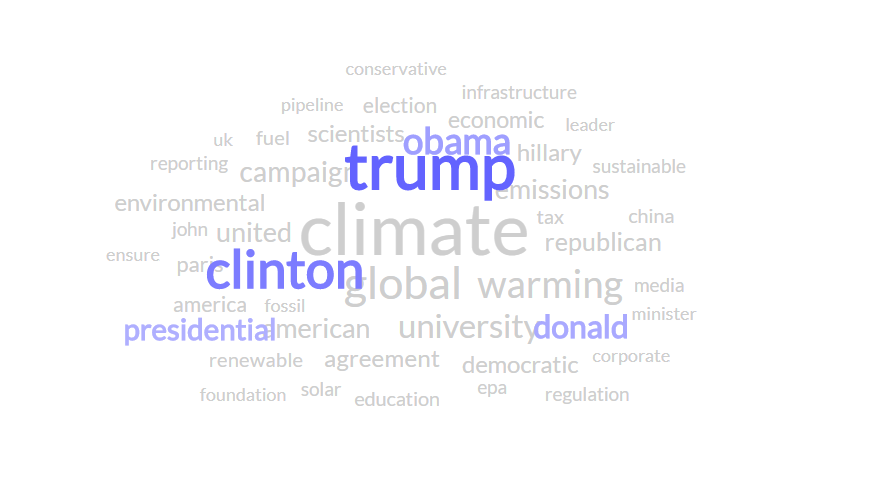
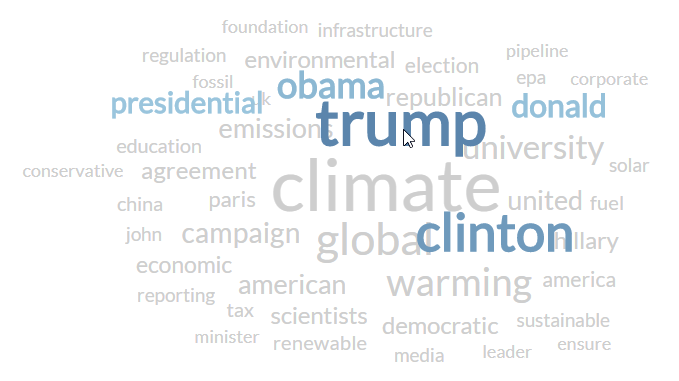
typo fixes and screenshot updates

diff --git a/server/templates/tutorial.html b/server/templates/tutorial.html
@@ -3,7 +3,7 @@
     <div>
       <form action="{{ url_for('index') }}" method="post">
         <div class="container-fluid">
-          <div class="row">
+          <div class="row mb-5">
             <div class="col-lg-12">
               <h2> Getting Started </h2>
               <p>
@@ -11,7 +11,7 @@
               </p>
             </div>
           </div>
-          <div class="row mb-3">
+          <div class="row mb-5">
             <div class="col-lg-7">
               {% if viz_type == "standard" %}
               <img src="{{ url_for('static', filename='img/standard_static.png') }}">
@@ -31,32 +31,35 @@
               </p>
             </div>
           </div>
-          <div class="row mb-3">
+          <div class="row mb-5">
             <div class="col-lg-7">
               {% if viz_type == "standard" %}
               <img src="{{ url_for('static', filename='img/standard_highlight.png') }}">
               {% elif viz_type == "rollover" %}
               <img src="{{ url_for('static', filename='img/similar_highlight.png') }}">
               {% elif viz_type == "word2vec" %}
-              <img src="{{ url_for('static', filename='img/space_highlight.png') }}" style="height: 90%; width: 90%;">
+              <img src="{{ url_for('static', filename='img/space_highlight.png') }}">
               {% endif %}
             </div>
             <div class="col-lg-5 d-flex align-items-center">
               <p>
+                {% if viz_type == "standard" %}
                 When you hover over a word with your mouse, it turns <b>blue</b> to make it easier to read.
-                {% if viz_type == "rollover" %}
-                Words that are often used in the same context as that word also turn blue. This 'relatedness' is based on an algorithmic analysis of how words are used together.
+                {% elif viz_type == "rollover" %}
+                When you hover over a word with your mouse, it turns <b>blue</b> to make it easier to read.
+                Words that turn blue are all used in similar ways. This 'similarity' is based on an algorithmic analysis of how words are used together.
                 {% elif viz_type == "word2vec" %}
-                Words that turn blue, and are within the dark background cone, are all used in similar ways. This 'similarity' is based on an algorithmic analysis of how all the words are used together.
+                When you hover over a word with your mouse, it turns <b>orange</b> to make it easier to read.
+                Words that turn orange, and that are within the light blue cone, are all used in similar ways. This 'similarity' is based on an algorithmic analysis of how all the words are used together.
                 {% endif %}
               </p>
             </div>
           </div>
           <br>
           <br>
-          <div class="row">
+          <div class="row mb-5">
             <div class="col-lg-12">
-              <h2> Identifying Conversations </h2>
+              <h2> Finding Conversations </h2>
               <p>
                 {% if viz_type == "standard" %}
                 You can try to identify different conversations by looking at words that go together.
@@ -68,34 +71,34 @@
               <p>
             </div>
           </div>
-          <div class="row mb-3">
+          <div class="row mb-5">
             <div class="col-lg-7">
               {% if viz_type == "standard" %}
               <img src="{{ url_for('static', filename='img/standard_conversation.png') }}">
               {% elif viz_type == "rollover" %}
               <img src="{{ url_for('static', filename='img/similar_political.png') }}">
               {% elif viz_type == "word2vec" %}
-              <img src="{{ url_for('static', filename='img/space_political.png') }}" style="height: 90%; width: 90%;">
+              <img src="{{ url_for('static', filename='img/space_political.png') }}">
               {% endif %}
             </div>
             <div class="col-lg-5 d-flex align-items-center">
               <p>
                 {% if viz_type == "standard" %}
-                Starting with bigger words, we can see that "clinton", "trump", and "obama"; that suggests a <i>political</i> conversation. A different conversation could be about <i>alternative energy</i> - indicated by "sustainable", "solar", and "renewable". This is the information we want you to identify and enter.
+                Starting with bigger words, we can see words like "clinton", "trump", and "obama"; that suggests a <i>political</i> conversation. A different conversation could be about <i>alternative energy</i> - indicated by "sustainable", "solar", and "renewable". This is the information we want you to identify and enter.
                 {% elif viz_type == "rollover" %}
                 For instance, if you rollover "trump", then "obama" and "clinton" turn blue; you might name this a <i>political</i> conversation.
                 {% elif viz_type == "word2vec" %}
-                For instance, if you rollover "trump", then "obama" and "clinton" turn blue; you might name this a <i>political</i> conversation.
+                For instance, if you rollover "trump", then "obama" and "clinton" turn orange; you might name this a <i>political</i> conversation.
                 {% endif %}
               <p>
             </div>
           </div>
-          <div class="row mb-3">
+          <div class="row mb-5">
             <div class="col-lg-7">
               {% if viz_type == "rollover" %}
               <img src="{{ url_for('static', filename='img/similar_energy.png') }}">
               {% elif viz_type == "word2vec" %}
-              <img src="{{ url_for('static', filename='img/space_emissions.png') }}" style="height: 90%; width: 90%;">
+              <img src="{{ url_for('static', filename='img/space_emissions.png') }}">
               {% endif %}
             </div>
             <div class="col-lg-5 d-flex align-items-center">
@@ -104,7 +107,7 @@
                 Rollover "sustainable" and you'll see "renewable" and "solar" turn blue; you might name this an <i>alternative energy</i> conversation.
                 This is the information we want you to identify and enter.
                 {% elif viz_type == "word2vec" %}
-                Rollover "emissions" and you'll see "climate" and "china" turn blue; you might name this an <i>emissions negotiation</i> conversation.
+                Rollover "emissions" and you'll see "climate" and "china" turn orange; you might name this an <i>emissions negotiation</i> conversation.
                 This is the information we want you to identify and enter.
                 {% endif %}
               <p>

diff --git a/server/static/js/rolloverCloud.js b/server/static/js/rolloverCloud.js
@@ -3,8 +3,6 @@ var generateRolloverCloud = function(options, wordList) {
 
   // calculate absolute position for nice spacing/centering
   var svgWidth = $(options.cloudDomId).width();
-  console.log('width');
-  console.log(svgWidth);
   var svgRect = document.getElementById('rollover').getBoundingClientRect();
 
   // add in tf normalization
@@ -17,13 +15,12 @@ var generateRolloverCloud = function(options, wordList) {
                      .range(['#b4b4b4', '#000000']);
   var blueColorScale = d3.scaleLinear()
                          .domain(fullExtent)
-                         .range(['#b4b4ff', '#0000ff']);
+                         .range(['#9ecae1', '#08306b']);
 
   var fontScale = d3.scaleLinear()
                     .domain(fullExtent)
                     .range([options.minFontSize, options.maxFontSize]);
-console.log(svgRect);
-console.log(svgRect.left);
+
   // create wordcloud
   d3.layout.cloud()
     .size([svgWidth, options.height])

diff --git a/server/templates/viz.html b/server/templates/viz.html
@@ -13,10 +13,11 @@
         <div class="col-lg-12">
           <h1 id="title"></h1>
           <p>Explore this visualization of the words online media used to report on the Ebola outbreak in 2014.
-            {% if viz_type != 'standard' %}
+            {% if viz_type != 'rollover' %}
             Hover over a word with your mouse pointer and related words will be highlighed in blue.
             {% endif %}
             {% if viz_type == 'word2vec' %}
+            Hover over a word with your mouse pointer and related words will be highlighed in orange.
             You can also double-click to zoom in and out.
             {% endif %}
             Then, fill in the form below with two main conversations you see and the key words that you think define it.

diff --git a/server/templates/error.html b/server/templates/error.html
@@ -1,6 +1,6 @@
 {% extends "layout.html" %}
 {% block body %}
-  <div>
+  <div class="container-fluid">
     <h1> Sorry, only one chance. </h1>
     <p> To make sure our study has good results, we don't
         allow you to reload the page or submit another round

diff --git a/server/templates/thanks.html b/server/templates/thanks.html
@@ -1,6 +1,6 @@
 {% extends "layout.html" %}
 {% block body %}
-  <div class="container">
+  <div class="container-fluid">
     <h1> Thanks again! </h1>
   </div>
 {% endblock %}
